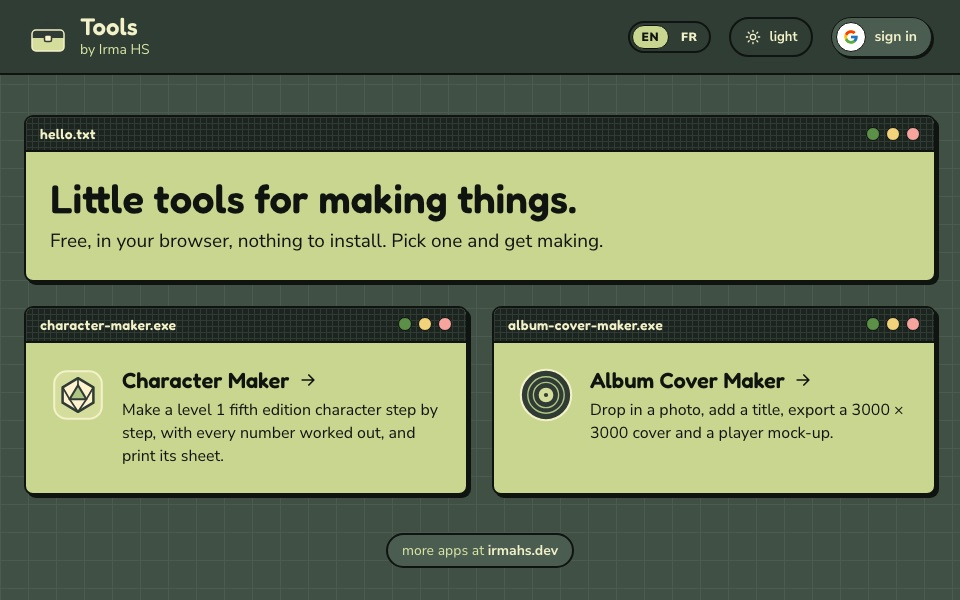
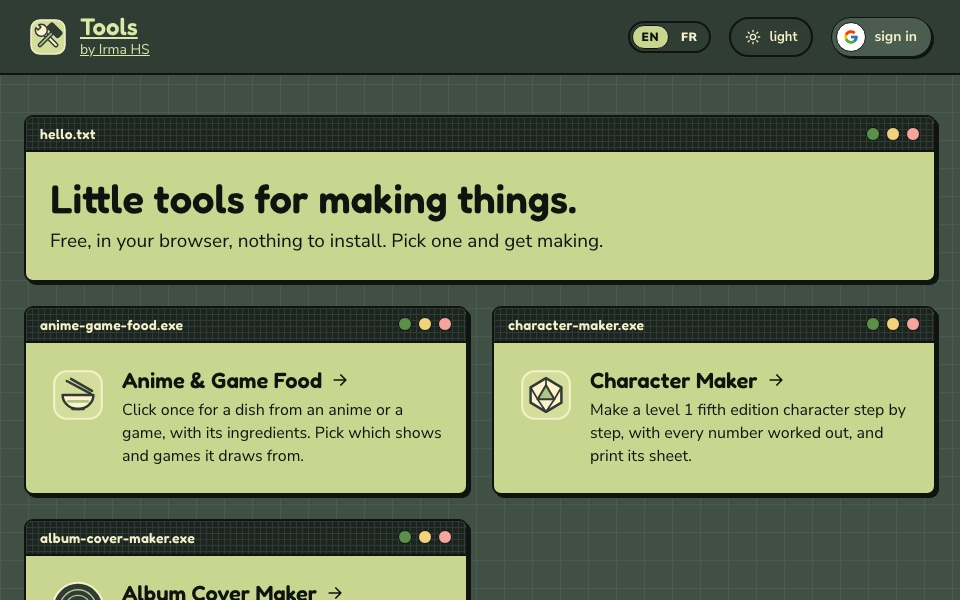
feat: a wrench and a hammer for the Tools tile, and a fresh screenshot
The Tools tile in launcher.exe takes the app's new logo (irmahs-labs/tools#21)
in place of the toolbox, and its screenshot shows Tools as it is now in Dark
Matcha, with Anime & Game Food.

diff --git a/src/lib/apps.ts b/src/lib/apps.ts
@@ -77,8 +77,9 @@ export const APPS: readonly AppLink[] = [
       en: "Handy little makers, starting with album covers in 3000 × 3000",
       fr: "De petits outils pratiques, à commencer par des pochettes en 3000 × 3000",
     },
-    // The app's own logo: a toolbox, its handle on top and its latch in front
-    icon: "M9 7 V5.5 A1.5 1.5 0 0 1 10.5 4 H13.5 A1.5 1.5 0 0 1 15 5.5 V7 M6 7 H18 A2 2 0 0 1 20 9 V18 A2 2 0 0 1 18 20 H6 A2 2 0 0 1 4 18 V9 A2 2 0 0 1 6 7 Z M4 12 H20 M10.5 11 H13.5 V14 H10.5 Z",
+    // The app's own logo: a wrench and a hammer crossed, the wrench's open
+    // jaw top left and the hammer's head top right
+    icon: "M4.95 7.95 L6.63 9.62 L8.32 7.93 L6.65 6.25 A3.2 3.2 0 1 1 4.95 7.95 Z M10.16 11.46 L18.72 20.02 M15.18 10.12 L5.28 20.02 M14.83 4.81 L20.49 10.47 L18.01 12.95 L12.35 7.29 Z",
     name: "Tools",
   }),
   hosted("pantry-spinner", {

diff --git a/src/lib/changelog.ts b/src/lib/changelog.ts
@@ -15,6 +15,21 @@ export interface ChangelogEntry {
 export const CHANGELOG: readonly ChangelogEntry[] = [
   {
     changes: [
+      "tools has a new icon in the launcher: a wrench and a hammer",
+      "and a fresh picture, with anime & game food in it",
+    ],
+    date: "2026-11-23",
+    fr: {
+      changes: [
+        "tools a une nouvelle icône dans le lanceur : une clé et un marteau",
+        "et une nouvelle image, avec anime & game food dedans",
+      ],
+      title: "tools se refait une beauté",
+    },
+    title: "tools gets a makeover",
+  },
+  {
+    changes: [
       "alma is in the launcher now, last, after the portfolio",
       "it's private: only the two of us get in, everyone else gets a polite no",
     ],

diff --git a/CHANGELOG.md b/CHANGELOG.md
@@ -4,6 +4,8 @@ Every change to irmahs.dev, newest first, one entry per pull request. The releas
 
 ## 23 November 2026
 
+- **A wrench and a hammer for Tools, and a fresh screenshot:** the Tools tile in `launcher.exe` swaps its toolbox for the app's new logo, a wrench and a hammer crossed (irmahs-labs/tools#21), and its screenshot shows Tools as it is now in Dark Matcha, with Anime & Game Food beside the Character Maker and the Album Cover Maker.
+
 - **The smoke test runs in the shared Build job:** the built server is started and checked in `app / Build` from irmahs-labs/workflows (its new `smoke` input), like every other repo's Build, instead of in a "Build and smoke test" job of this repo's own next to a skipped `app / Build`. The checks themselves are the same.
 
 ## 19 November 2026
